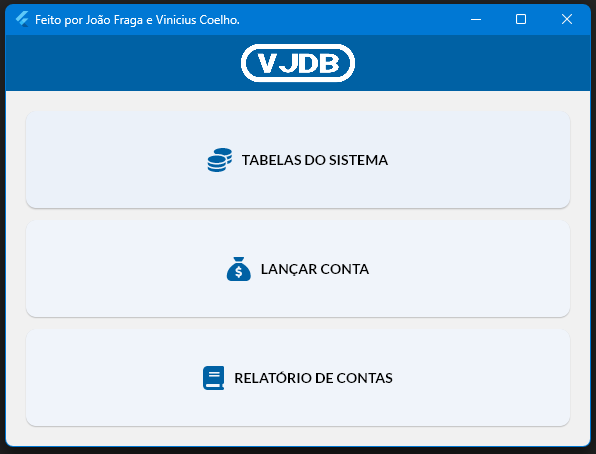
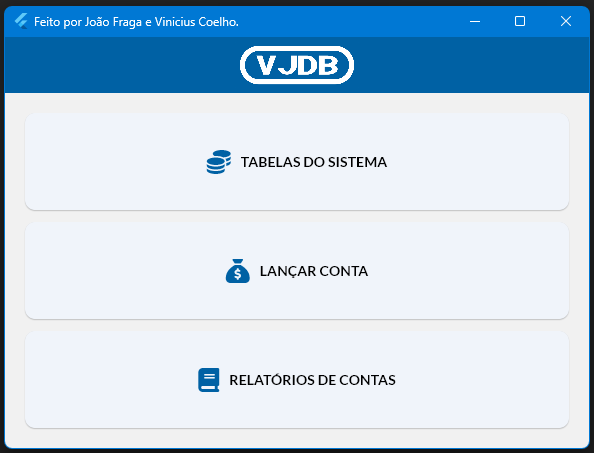
Alteração no nome de página.

diff --git a/lib/core/config/vjdb.dart b/lib/core/config/vjdb.dart
@@ -38,7 +38,7 @@ class _VJDBState extends State<VJDB> {
             SizedBox(height: 12),
             OptionButtonWidget(
                 icone: FaIcon(FontAwesomeIcons.book),
-                label: 'Relatório de Contas',
+                label: 'Relatórios de Contas',
                 pagina: RelatoriosDeContasPage()),
           ]),
         ),
